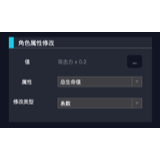
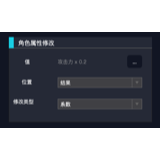
editor_one

Changed region(s): [[0.375, 0.4688, 0.5312, 0.5312], [0.375, 0.625, 0.4375, 0.6875], [0.125, 0.4688, 0.2188, 0.5312]]

diff --git a/Editor_One/index.html b/Editor_One/index.html
@@ -8951,157 +8951,6 @@
     <fontFamily>PingFang+HK</fontFamily>
     <guideLines/>
   </param>
-</mockup></script><script id='D42D9F53-5F9D-E911-814C-38C9861F66CD' type='application/xml'><mockup version="5.3" minAllowVersion="5.3" ID="14369366-8E9C-E911-99DC-38C9861F66CD" platform="MtDesktop" defaultW="781" defaultH="604" measureW="372" measureH="220" mobileScreenScale="0">
-  <controls controlCount="16">
-    <control controlID="2A1A0651-B59B-E911-93B5-38C9861F66CD" controlTypeID="Shape" x="20" y="36" w="334" h="172" zOrder="0">
-      <color>4280625462</color>
-      <borderColor>4280821800</borderColor>
-      <font family="PingFang+HK" displayName="PingFang+HK+Light" postScript="PingFangHK-Light" weightStyle="Light" weight="200" isBold="False" isItalic="False"/>
-      <textColor>4280821800</textColor>
-      <selectedIndex>-1</selectedIndex>
-    </control>
-    <control controlID="8E1A0651-B59B-E911-93B5-38C9861F66CD" controlTypeID="Image" x="20" y="10" w="334" h="26" zOrder="1">
-      <URL>E1B6B6AB595CA28A9B766A70BB7A18FD.png</URL>
-    </control>
-    <control controlID="D41A0651-B59B-E911-93B5-38C9861F66CD" controlTypeID="Label" x="42" y="13" w="84" h="20" zOrder="2">
-      <font family="PingFang+HK" displayName="PingFang+HK+Light" postScript="PingFangHK-Light" weightStyle="Light" weight="200" isBold="False" isItalic="False"/>
-      <text>%E8%A7%92%E8%89%B2%E5%B1%9E%E6%80%A7%E4%BF%AE%E6%94%B9</text>
-      <textColor>4294967295</textColor>
-      <lineSpacing>0</lineSpacing>
-      <useDefaultTextSize>False</useDefaultTextSize>
-      <selectedIndex>-1</selectedIndex>
-    </control>
-    <control controlID="6C9C7FDC-D29B-E911-93B5-38C9861F66CD" controlTypeID="Label" x="50" y="105" w="24" h="18" zOrder="3">
-      <font family="PingFang+HK" displayName="PingFang+HK+Light" postScript="PingFangHK-Light" weightStyle="Light" weight="200" isBold="False" isItalic="False"/>
-      <text>%E4%BD%8D%E7%BD%AE</text>
-      <textColor>4294967295</textColor>
-      <textSize>12</textSize>
-      <lineSpacing>0</lineSpacing>
-      <selectedIndex>-1</selectedIndex>
-    </control>
-    <control controlID="94EC4FF3-D29B-E911-93B5-38C9861F66CD" controlTypeID="CompositeComboBox" x="134" y="104" w="197" h="24" zOrder="4">
-      <color>4282400836</color>
-      <groupChildrenDescriptors>
-        <control controlID="DAEC4FF3-D29B-E911-93B5-38C9861F66CD" controlTypeID="TextInput" x="0" y="0" w="174" h="24" zOrder="0">
-          <locked>True</locked>
-          <color>4282400836</color>
-          <canMove>False</canMove>
-          <alias>input</alias>
-          <font family="PingFang+HK" displayName="PingFang+HK+Light" postScript="PingFangHK-Light" weightStyle="Light" weight="200" isBold="False" isItalic="False" useDefaultFontFamily="False"/>
-          <text>%E7%BB%93%E6%9E%9C</text>
-          <textColor>4294967295</textColor>
-          <textSize>12</textSize>
-          <lineSpacing>0</lineSpacing>
-          <selectedIndex>-1</selectedIndex>
-        </control>
-        <control controlID="20ED4FF3-D29B-E911-93B5-38C9861F66CD" controlTypeID="Button" x="173" y="0" w="24" h="24" zOrder="1">
-          <locked>True</locked>
-          <color>4282400836</color>
-          <canMove>False</canMove>
-          <alias>button</alias>
-          <font family="PingFang+HK" displayName="PingFang+HK+Light" postScript="PingFangHK-Light" weightStyle="Light" weight="200" isBold="False" isItalic="False"/>
-          <textSize>12</textSize>
-          <lineSpacing>0</lineSpacing>
-          <selectedIndex>-1</selectedIndex>
-          <radius>0</radius>
-        </control>
-        <control controlID="66ED4FF3-D29B-E911-93B5-38C9861F66CD" controlTypeID="List" x="0" y="24" w="197" h="26" zOrder="2">
-          <isShow>False</isShow>
-          <canMove>False</canMove>
-          <alias>dropDown</alias>
-          <font family="PingFang+HK" displayName="PingFang+HK+Light" postScript="PingFangHK-Light" weightStyle="Light" weight="200" isBold="False" isItalic="False" useDefaultFontFamily="False"/>
-          <text>%E7%BB%93%E6%9E%9C</text>
-          <lineSpacing>0</lineSpacing>
-          <itemHeight>24</itemHeight>
-          <interlaceColor>4294967295</interlaceColor>
-        </control>
-      </groupChildrenDescriptors>
-      <baseHeight>24</baseHeight>
-      <font family="PingFang+HK"/>
-      <textColor>4294967295</textColor>
-    </control>
-    <control controlID="1259CA3B-5B9D-E911-814C-38C9861F66CD" controlTypeID="Label" x="57" y="58" w="12" h="18" zOrder="5">
-      <font family="PingFang+HK" displayName="PingFang+HK+Light" postScript="PingFangHK-Light" weightStyle="Light" weight="200" isBold="False" isItalic="False"/>
-      <text>%E5%80%BC</text>
-      <textColor>4294967295</textColor>
-      <textSize>12</textSize>
-      <lineSpacing>0</lineSpacing>
-      <selectedIndex>-1</selectedIndex>
-    </control>
-    <control controlID="7659CA3B-5B9D-E911-814C-38C9861F66CD" controlTypeID="Label" x="134" y="58" w="67" h="18" zOrder="6">
-      <font family="PingFang+HK" displayName="PingFang+HK+Light" postScript="PingFangHK-Light" weightStyle="Light" weight="200" isBold="False" isItalic="False"/>
-      <text>%E6%94%BB%E5%87%BB%E5%8A%9B+x+0.2</text>
-      <textColor>4288256409</textColor>
-      <textSize>12</textSize>
-      <lineSpacing>0</lineSpacing>
-      <selectedIndex>-1</selectedIndex>
-    </control>
-    <control controlID="BC59CA3B-5B9D-E911-814C-38C9861F66CD" controlTypeID="Button" x="296" y="52" w="35" h="30" zOrder="7">
-      <color>4279309603</color>
-      <borderVisible>False</borderVisible>
-      <font family="PingFang+HK" displayName="PingFang+HK+Regular" postScript="PingFangHK-Regular" weightStyle="Regular" weight="400" isBold="False" isItalic="False" useDefaultFontFamily="False"/>
-      <text>...</text>
-      <textColor>4294967295</textColor>
-      <textSize>12</textSize>
-      <lineSpacing>0</lineSpacing>
-      <selectedIndex>-1</selectedIndex>
-    </control>
-    <control controlID="648AB1F2-5C9D-E911-814C-38C9861F66CD" controlTypeID="Label" x="30" y="151" w="48" h="18" zOrder="8">
-      <font family="PingFang+HK" displayName="PingFang+HK+Light" postScript="PingFangHK-Light" weightStyle="Light" weight="200" isBold="False" isItalic="False"/>
-      <text>%E4%BF%AE%E6%94%B9%E7%B1%BB%E5%9E%8B</text>
-      <textColor>4294967295</textColor>
-      <textSize>12</textSize>
-      <lineSpacing>0</lineSpacing>
-      <selectedIndex>-1</selectedIndex>
-    </control>
-    <control controlID="C88AB1F2-5C9D-E911-814C-38C9861F66CD" controlTypeID="CompositeComboBox" x="134" y="154" w="197" h="24" zOrder="9">
-      <color>4282400836</color>
-      <groupChildrenDescriptors>
-        <control controlID="188BB1F2-5C9D-E911-814C-38C9861F66CD" controlTypeID="TextInput" x="0" y="0" w="174" h="24" zOrder="0">
-          <locked>True</locked>
-          <color>4282400836</color>
-          <canMove>False</canMove>
-          <alias>input</alias>
-          <font family="PingFang+HK" displayName="PingFang+HK+Light" postScript="PingFangHK-Light" weightStyle="Light" weight="200" isBold="False" isItalic="False" useDefaultFontFamily="False"/>
-          <text>%E7%B3%BB%E6%95%B0</text>
-          <textColor>4294967295</textColor>
-          <textSize>12</textSize>
-          <lineSpacing>0</lineSpacing>
-          <selectedIndex>-1</selectedIndex>
-        </control>
-        <control controlID="5E8BB1F2-5C9D-E911-814C-38C9861F66CD" controlTypeID="Button" x="173" y="0" w="24" h="24" zOrder="1">
-          <locked>True</locked>
-          <color>4282400836</color>
-          <canMove>False</canMove>
-          <alias>button</alias>
-          <font family="PingFang+HK" displayName="PingFang+HK+Light" postScript="PingFangHK-Light" weightStyle="Light" weight="200" isBold="False" isItalic="False"/>
-          <textSize>12</textSize>
-          <lineSpacing>0</lineSpacing>
-          <selectedIndex>-1</selectedIndex>
-          <radius>0</radius>
-        </control>
-        <control controlID="A48BB1F2-5C9D-E911-814C-38C9861F66CD" controlTypeID="List" x="0" y="24" w="197" h="74" zOrder="2">
-          <isShow>False</isShow>
-          <canMove>False</canMove>
-          <alias>dropDown</alias>
-          <font family="PingFang+HK" displayName="PingFang+HK+Light" postScript="PingFangHK-Light" weightStyle="Light" weight="200" isBold="False" isItalic="False" useDefaultFontFamily="False"/>
-          <text>%E7%B3%BB%E6%95%B0%0A%E6%9B%BF%E6%8D%A2%0A%E5%8A%A0%E5%87%8F</text>
-          <lineSpacing>0</lineSpacing>
-          <itemHeight>24</itemHeight>
-          <interlaceColor>4294967295</interlaceColor>
-        </control>
-      </groupChildrenDescriptors>
-      <baseHeight>24</baseHeight>
-      <font family="PingFang+HK"/>
-      <textColor>4294967295</textColor>
-    </control>
-  </controls>
-  <param>
-    <backgroundColor>4279309603</backgroundColor>
-    <fontSize>12</fontSize>
-    <fontFamily>PingFang+HK</fontFamily>
-    <guideLines/>
-  </param>
 </mockup></script><script id='E205756A-5F9D-E911-814C-38C9861F66CD' type='application/xml'><mockup version="5.3" minAllowVersion="5.3" ID="14369366-8E9C-E911-99DC-38C9861F66CD" platform="MtDesktop" defaultW="781" defaultH="604" measureW="372" measureH="358" mobileScreenScale="0">
   <controls controlCount="31">
     <control controlID="2A1A0651-B59B-E911-93B5-38C9861F66CD" controlTypeID="Shape" x="20" y="36" w="334" h="306" zOrder="0">
@@ -10764,6 +10613,157 @@
     <fontFamily>PingFang+HK</fontFamily>
     <guideLines/>
   </param>
+</mockup></script><script id='D42D9F53-5F9D-E911-814C-38C9861F66CD' type='application/xml'><mockup version="5.3" minAllowVersion="5.3" ID="14369366-8E9C-E911-99DC-38C9861F66CD" platform="MtDesktop" defaultW="781" defaultH="604" measureW="372" measureH="220" mobileScreenScale="0">
+  <controls controlCount="16">
+    <control controlID="2A1A0651-B59B-E911-93B5-38C9861F66CD" controlTypeID="Shape" x="20" y="36" w="334" h="172" zOrder="0">
+      <color>4280625462</color>
+      <borderColor>4280821800</borderColor>
+      <font family="PingFang+HK" displayName="PingFang+HK+Light" postScript="PingFangHK-Light" weightStyle="Light" weight="200" isBold="False" isItalic="False"/>
+      <textColor>4280821800</textColor>
+      <selectedIndex>-1</selectedIndex>
+    </control>
+    <control controlID="8E1A0651-B59B-E911-93B5-38C9861F66CD" controlTypeID="Image" x="20" y="10" w="334" h="26" zOrder="1">
+      <URL>E1B6B6AB595CA28A9B766A70BB7A18FD.png</URL>
+    </control>
+    <control controlID="D41A0651-B59B-E911-93B5-38C9861F66CD" controlTypeID="Label" x="42" y="13" w="84" h="20" zOrder="2">
+      <font family="PingFang+HK" displayName="PingFang+HK+Light" postScript="PingFangHK-Light" weightStyle="Light" weight="200" isBold="False" isItalic="False"/>
+      <text>%E4%BC%A4%E5%AE%B3%E7%BB%93%E6%9E%9C%E4%BF%AE%E6%94%B9</text>
+      <textColor>4294967295</textColor>
+      <lineSpacing>0</lineSpacing>
+      <useDefaultTextSize>False</useDefaultTextSize>
+      <selectedIndex>-1</selectedIndex>
+    </control>
+    <control controlID="6C9C7FDC-D29B-E911-93B5-38C9861F66CD" controlTypeID="Label" x="50" y="105" w="24" h="18" zOrder="3">
+      <font family="PingFang+HK" displayName="PingFang+HK+Light" postScript="PingFangHK-Light" weightStyle="Light" weight="200" isBold="False" isItalic="False"/>
+      <text>%E4%BD%8D%E7%BD%AE</text>
+      <textColor>4294967295</textColor>
+      <textSize>12</textSize>
+      <lineSpacing>0</lineSpacing>
+      <selectedIndex>-1</selectedIndex>
+    </control>
+    <control controlID="94EC4FF3-D29B-E911-93B5-38C9861F66CD" controlTypeID="CompositeComboBox" x="134" y="104" w="197" h="24" zOrder="4">
+      <color>4282400836</color>
+      <groupChildrenDescriptors>
+        <control controlID="DAEC4FF3-D29B-E911-93B5-38C9861F66CD" controlTypeID="TextInput" x="0" y="0" w="174" h="24" zOrder="0">
+          <locked>True</locked>
+          <color>4282400836</color>
+          <canMove>False</canMove>
+          <alias>input</alias>
+          <font family="PingFang+HK" displayName="PingFang+HK+Light" postScript="PingFangHK-Light" weightStyle="Light" weight="200" isBold="False" isItalic="False" useDefaultFontFamily="False"/>
+          <text>%E7%BB%93%E6%9E%9C</text>
+          <textColor>4294967295</textColor>
+          <textSize>12</textSize>
+          <lineSpacing>0</lineSpacing>
+          <selectedIndex>-1</selectedIndex>
+        </control>
+        <control controlID="20ED4FF3-D29B-E911-93B5-38C9861F66CD" controlTypeID="Button" x="173" y="0" w="24" h="24" zOrder="1">
+          <locked>True</locked>
+          <color>4282400836</color>
+          <canMove>False</canMove>
+          <alias>button</alias>
+          <font family="PingFang+HK" displayName="PingFang+HK+Light" postScript="PingFangHK-Light" weightStyle="Light" weight="200" isBold="False" isItalic="False"/>
+          <textSize>12</textSize>
+          <lineSpacing>0</lineSpacing>
+          <selectedIndex>-1</selectedIndex>
+          <radius>0</radius>
+        </control>
+        <control controlID="66ED4FF3-D29B-E911-93B5-38C9861F66CD" controlTypeID="List" x="0" y="24" w="197" h="26" zOrder="2">
+          <isShow>False</isShow>
+          <canMove>False</canMove>
+          <alias>dropDown</alias>
+          <font family="PingFang+HK" displayName="PingFang+HK+Light" postScript="PingFangHK-Light" weightStyle="Light" weight="200" isBold="False" isItalic="False" useDefaultFontFamily="False"/>
+          <text>%E7%BB%93%E6%9E%9C</text>
+          <lineSpacing>0</lineSpacing>
+          <itemHeight>24</itemHeight>
+          <interlaceColor>4294967295</interlaceColor>
+        </control>
+      </groupChildrenDescriptors>
+      <baseHeight>24</baseHeight>
+      <font family="PingFang+HK"/>
+      <textColor>4294967295</textColor>
+    </control>
+    <control controlID="1259CA3B-5B9D-E911-814C-38C9861F66CD" controlTypeID="Label" x="57" y="58" w="12" h="18" zOrder="5">
+      <font family="PingFang+HK" displayName="PingFang+HK+Light" postScript="PingFangHK-Light" weightStyle="Light" weight="200" isBold="False" isItalic="False"/>
+      <text>%E5%80%BC</text>
+      <textColor>4294967295</textColor>
+      <textSize>12</textSize>
+      <lineSpacing>0</lineSpacing>
+      <selectedIndex>-1</selectedIndex>
+    </control>
+    <control controlID="7659CA3B-5B9D-E911-814C-38C9861F66CD" controlTypeID="Label" x="134" y="58" w="67" h="18" zOrder="6">
+      <font family="PingFang+HK" displayName="PingFang+HK+Light" postScript="PingFangHK-Light" weightStyle="Light" weight="200" isBold="False" isItalic="False"/>
+      <text>%E6%94%BB%E5%87%BB%E5%8A%9B+x+0.2</text>
+      <textColor>4288256409</textColor>
+      <textSize>12</textSize>
+      <lineSpacing>0</lineSpacing>
+      <selectedIndex>-1</selectedIndex>
+    </control>
+    <control controlID="BC59CA3B-5B9D-E911-814C-38C9861F66CD" controlTypeID="Button" x="296" y="52" w="35" h="30" zOrder="7">
+      <color>4279309603</color>
+      <borderVisible>False</borderVisible>
+      <font family="PingFang+HK" displayName="PingFang+HK+Regular" postScript="PingFangHK-Regular" weightStyle="Regular" weight="400" isBold="False" isItalic="False" useDefaultFontFamily="False"/>
+      <text>...</text>
+      <textColor>4294967295</textColor>
+      <textSize>12</textSize>
+      <lineSpacing>0</lineSpacing>
+      <selectedIndex>-1</selectedIndex>
+    </control>
+    <control controlID="648AB1F2-5C9D-E911-814C-38C9861F66CD" controlTypeID="Label" x="30" y="151" w="48" h="18" zOrder="8">
+      <font family="PingFang+HK" displayName="PingFang+HK+Light" postScript="PingFangHK-Light" weightStyle="Light" weight="200" isBold="False" isItalic="False"/>
+      <text>%E4%BF%AE%E6%94%B9%E7%B1%BB%E5%9E%8B</text>
+      <textColor>4294967295</textColor>
+      <textSize>12</textSize>
+      <lineSpacing>0</lineSpacing>
+      <selectedIndex>-1</selectedIndex>
+    </control>
+    <control controlID="C88AB1F2-5C9D-E911-814C-38C9861F66CD" controlTypeID="CompositeComboBox" x="134" y="154" w="197" h="24" zOrder="9">
+      <color>4282400836</color>
+      <groupChildrenDescriptors>
+        <control controlID="188BB1F2-5C9D-E911-814C-38C9861F66CD" controlTypeID="TextInput" x="0" y="0" w="174" h="24" zOrder="0">
+          <locked>True</locked>
+          <color>4282400836</color>
+          <canMove>False</canMove>
+          <alias>input</alias>
+          <font family="PingFang+HK" displayName="PingFang+HK+Light" postScript="PingFangHK-Light" weightStyle="Light" weight="200" isBold="False" isItalic="False" useDefaultFontFamily="False"/>
+          <text>%E7%B3%BB%E6%95%B0</text>
+          <textColor>4294967295</textColor>
+          <textSize>12</textSize>
+          <lineSpacing>0</lineSpacing>
+          <selectedIndex>-1</selectedIndex>
+        </control>
+        <control controlID="5E8BB1F2-5C9D-E911-814C-38C9861F66CD" controlTypeID="Button" x="173" y="0" w="24" h="24" zOrder="1">
+          <locked>True</locked>
+          <color>4282400836</color>
+          <canMove>False</canMove>
+          <alias>button</alias>
+          <font family="PingFang+HK" displayName="PingFang+HK+Light" postScript="PingFangHK-Light" weightStyle="Light" weight="200" isBold="False" isItalic="False"/>
+          <textSize>12</textSize>
+          <lineSpacing>0</lineSpacing>
+          <selectedIndex>-1</selectedIndex>
+          <radius>0</radius>
+        </control>
+        <control controlID="A48BB1F2-5C9D-E911-814C-38C9861F66CD" controlTypeID="List" x="0" y="24" w="197" h="74" zOrder="2">
+          <isShow>False</isShow>
+          <canMove>False</canMove>
+          <alias>dropDown</alias>
+          <font family="PingFang+HK" displayName="PingFang+HK+Light" postScript="PingFangHK-Light" weightStyle="Light" weight="200" isBold="False" isItalic="False" useDefaultFontFamily="False"/>
+          <text>%E7%B3%BB%E6%95%B0%0A%E6%9B%BF%E6%8D%A2%0A%E5%8A%A0%E5%87%8F</text>
+          <lineSpacing>0</lineSpacing>
+          <itemHeight>24</itemHeight>
+          <interlaceColor>4294967295</interlaceColor>
+        </control>
+      </groupChildrenDescriptors>
+      <baseHeight>24</baseHeight>
+      <font family="PingFang+HK"/>
+      <textColor>4294967295</textColor>
+    </control>
+  </controls>
+  <param>
+    <backgroundColor>4279309603</backgroundColor>
+    <fontSize>12</fontSize>
+    <fontFamily>PingFang+HK</fontFamily>
+    <guideLines/>
+  </param>
 </mockup></script><script id='main' type='application/xml'><project version="2.9" name="Editor_One" ID="1EB7A8F1-5F7C-E911-9605-38C9861F66CD">
   <params>
     <pageParam version="5.3" minAllowVersion="5.3"/>
@@ -10908,7 +10908,7 @@
         <image key="D5D159D47A213D1F6A7A5494EF7FDD05.png"/>
       </images>
     </page>
-    <page name="过程-伤害结果修改" ID="D42D9F53-5F9D-E911-814C-38C9861F66CD" expanded="True" code="8ujSU6AzOz" thumbCode="8ujSU6AzOz" status="psWhite" isfolder="False" isshownode="True">
+    <page name="过程-伤害结果修改" ID="D42D9F53-5F9D-E911-814C-38C9861F66CD" expanded="True" code="2Qi6KTyos9" thumbCode="8ujSU6AzOz" isLastOpen="True" status="psWhite" isfolder="False" isshownode="True">
       <images>
         <image key="E1B6B6AB595CA28A9B766A70BB7A18FD.png"/>
       </images>
@@ -10918,7 +10918,7 @@
         <image key="E1B6B6AB595CA28A9B766A70BB7A18FD.png"/>
       </images>
     </page>
-    <page name="过程-金币收益" ID="1EF44324-619D-E911-814C-38C9861F66CD" expanded="False" code="dGd7dfR15L" thumbCode="xvYCbBCR3y" isLastOpen="True" status="psWhite" isfolder="False" isshownode="True">
+    <page name="过程-金币收益" ID="1EF44324-619D-E911-814C-38C9861F66CD" expanded="False" code="dGd7dfR15L" thumbCode="dGd7dfR15L" status="psWhite" isfolder="False" isshownode="True">
       <images>
         <image key="E1B6B6AB595CA28A9B766A70BB7A18FD.png"/>
       </images>
